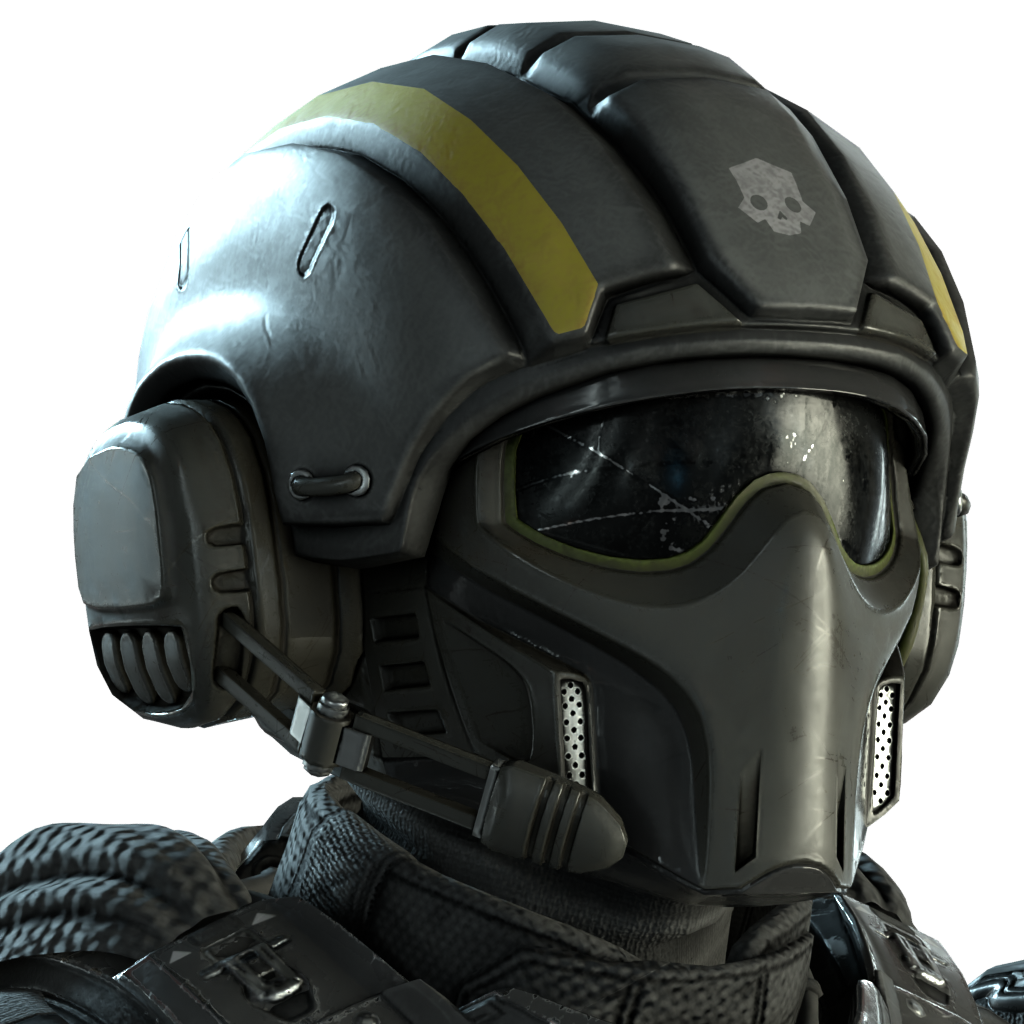
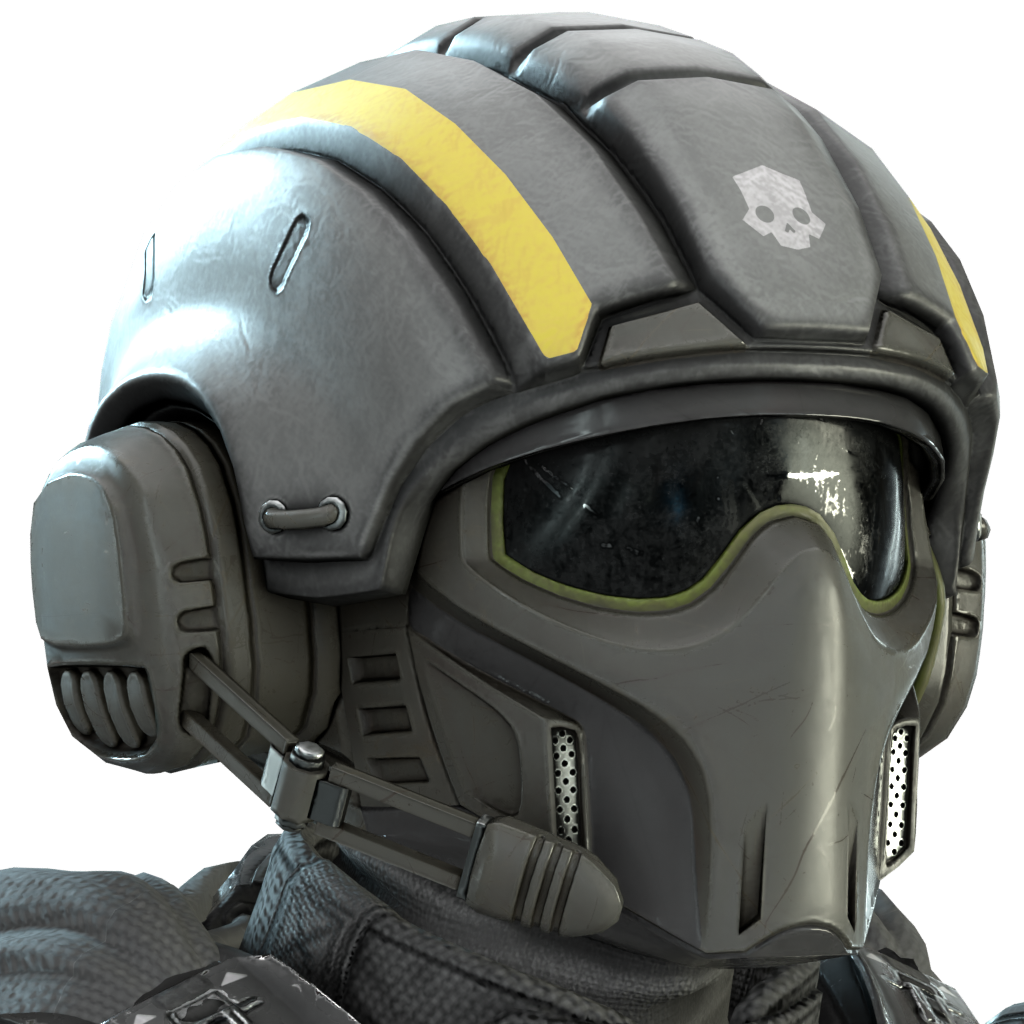
improved armor lab a bit

diff --git a/js/armorlab/main.js b/js/armorlab/main.js
@@ -339,11 +339,17 @@ const applySpecialRules = () => {
     "bfm77reformer",
     "bfm220ironclad",
     "bfm16tanker",
+    "ss500paleprosecutor",
   ];
   if (largeHelmets.includes(currentHelmet)) {
-    helmetImg.style.width = "84%";
+    helmetImg.style.width = "82%";
     helmetContainer.style.top = "22px";
     helmetContainer.style.left = "54.5%";
+  }
+
+  // SS-500 Pale Prosecutor hood sticks out to the left quite a bit
+  if (currentHelmet === "ss500paleprosecutor") {
+    helmetCard.style.clipPath = "inset(1px 25px 12px 0px)";
   }
 
   const ironcladHelmets = ["bfm77reformer", "bfm220ironclad", "bfm16tanker"];
@@ -353,7 +359,7 @@ const applySpecialRules = () => {
     ironcladHelmets.includes(currentHelmet)
   ) {
     helmetCard.style.clipPath = "inset(1px 25px 6px 2px)";
-    helmetContainer.style.top = "20px";
+    helmetContainer.style.top = "23.5px";
     helmetContainer.style.left = "55.5%";
   }
 
@@ -431,7 +437,7 @@ const applySpecialRules = () => {
   }
 
   // also has a tall neck shield, but not as tall as the other one
-  if (currentArmor === "cpr80bulwark") {
+  if (currentArmor === "cpr80bulwark" || currentArmor === "bfm220ironclad") {
     helmetCard.style.clipPath = "inset(1px 25px 20px 22px)";
     helmetContainer.style.top = "17px";
     armorImg.style.objectPosition = "center -39px";
